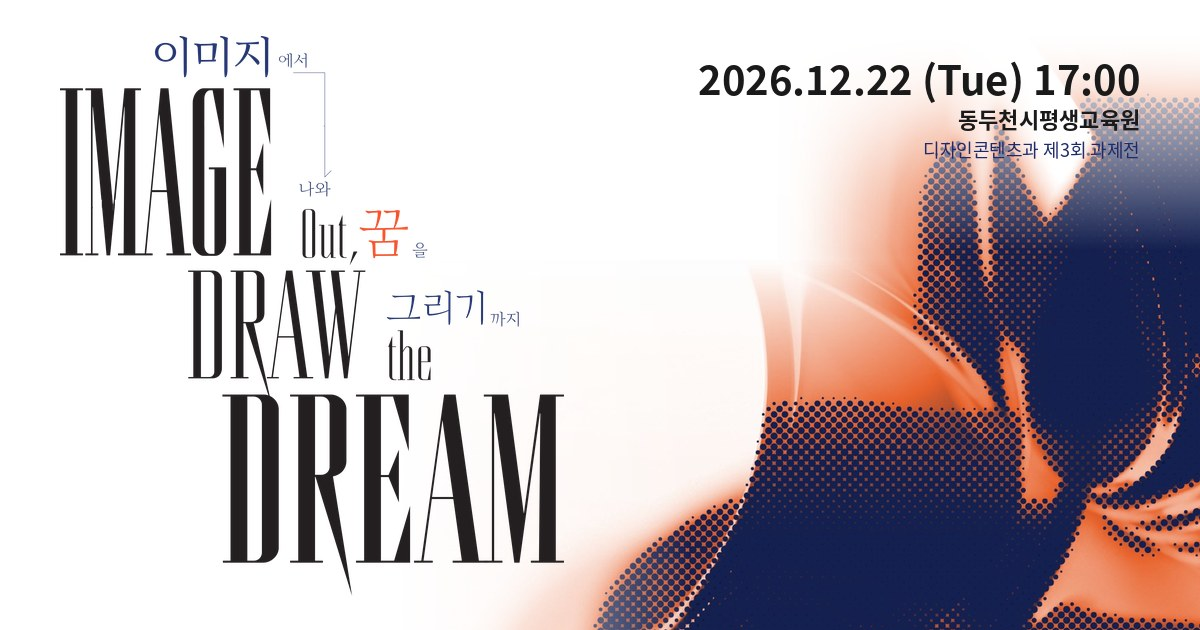
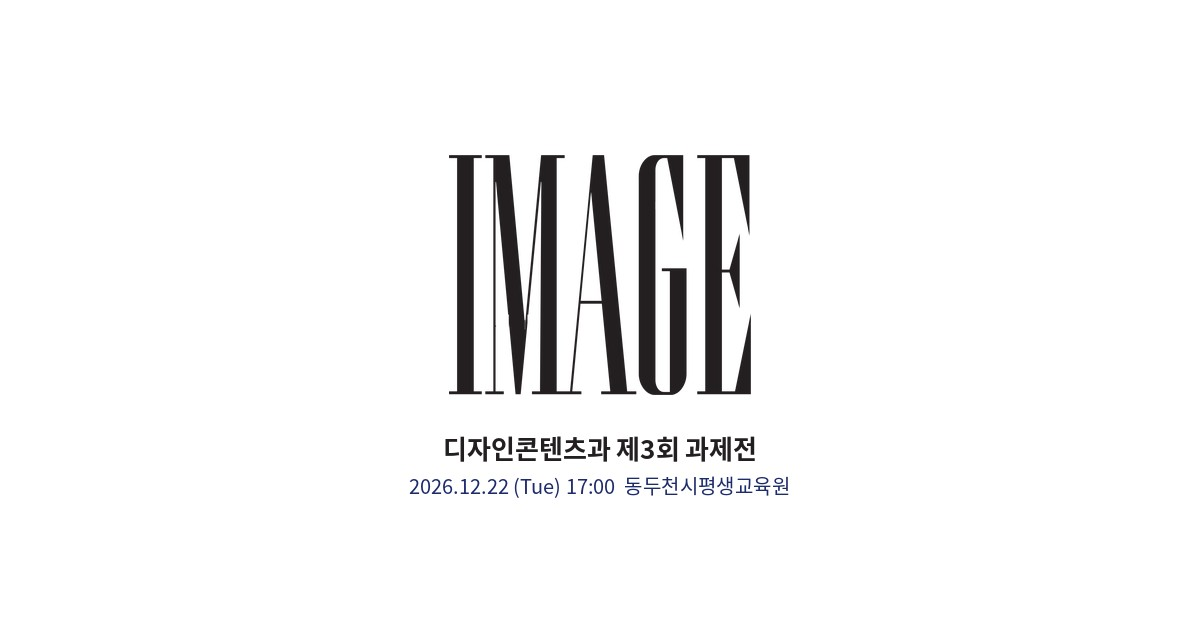
Add files via upload

diff --git a/index.html b/index.html
@@ -888,12 +888,13 @@ function vWork(id){
 /* ───────── 4. 라우팅 ───────── */
 function route(){
   const h=location.hash.replace(/^#\/?/,'').split('/');
-  let html, nav='home', title=SHOW.title;
+  const TT='디자인콘텐츠과 제3회 과제전';
+  let html, nav='home', title='Image Out, Draw the Dream | '+TT;
   const first=Object.keys(SUBJECTS)[0];
   if(!h[0]) html=vHome();
-  else if(h[0]==='grade'){const g=GRADES[h[1]]?h[1]:'1';html=vGrade(g,h[2]);nav='works';title=GRADES[g]+' | '+SHOW.title;}
-  else if(h[0]==='subject'){const k=SUBJECTS[h[1]]?h[1]:first;html=vSubject(k);nav='works';title=SUBJECTS[k].name+' | '+SHOW.title;}
-  else if(h[0]==='work'){const wk=WORKS.find(x=>x.id===h[1]);html=vWork(h[1]);nav=wk?'works':'home';if(wk)title=wk.title+' | '+SHOW.title;}
+  else if(h[0]==='grade'){const g=GRADES[h[1]]?h[1]:'1';html=vGrade(g,h[2]);nav='works';title=GRADES[g]+' | '+TT;}
+  else if(h[0]==='subject'){const k=SUBJECTS[h[1]]?h[1]:first;html=vSubject(k);nav='works';title=SUBJECTS[k].name+' | '+TT;}
+  else if(h[0]==='work'){const wk=WORKS.find(x=>x.id===h[1]);html=vWork(h[1]);nav=wk?'works':'home';if(wk)title=wk.title+' | '+TT;}
   else if(h[0]==='greet'){html=vGreet();nav='greet';title='인사말 | '+SHOW.title;}
   else html=vHome();
   app.innerHTML=html;
@@ -975,6 +976,8 @@ addEventListener('keydown',e=>{
   t&&sc.scrollTo({top:t.offsetTop,behavior:matchMedia('(prefers-reduced-motion:reduce)').matches?'auto':'smooth'});
 });
 addEventListener('hashchange',()=>{closeViewer();route()});
+/* 공유 링크로 처음 들어오면 항상 메인에서 시작 (같은 탭 새로고침은 유지) */
+try{if(!sessionStorage.getItem('kcm-in')){sessionStorage.setItem('kcm-in','1');if(location.hash&&location.hash!=='#/')history.replaceState(null,'',location.pathname+location.search);}}catch(e){}
 route();
 
 
